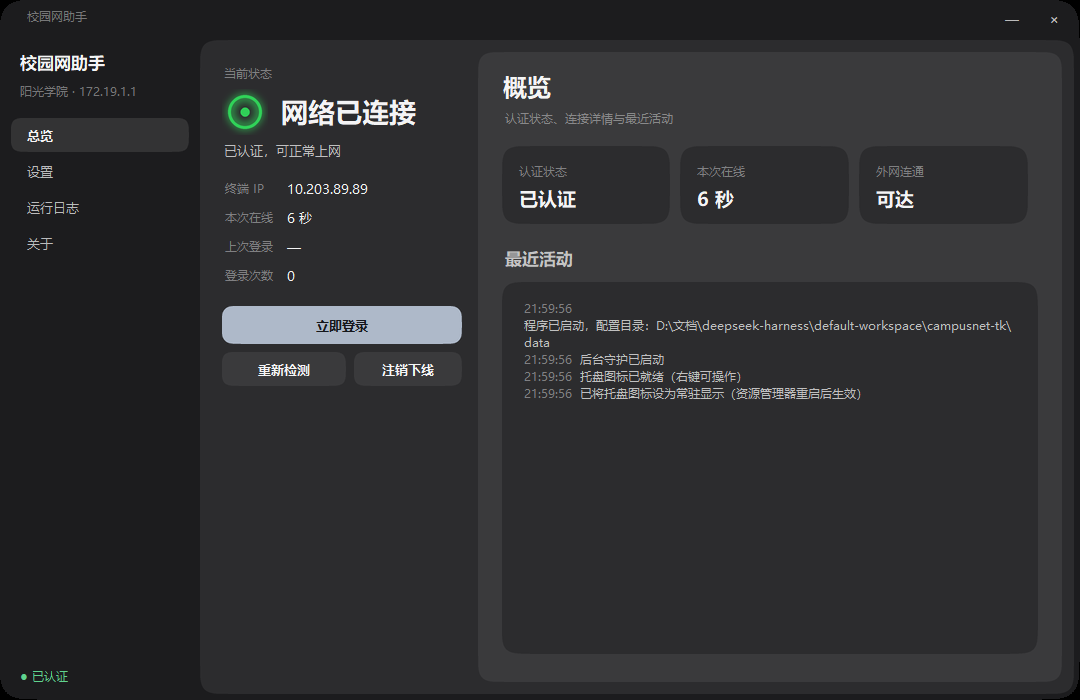
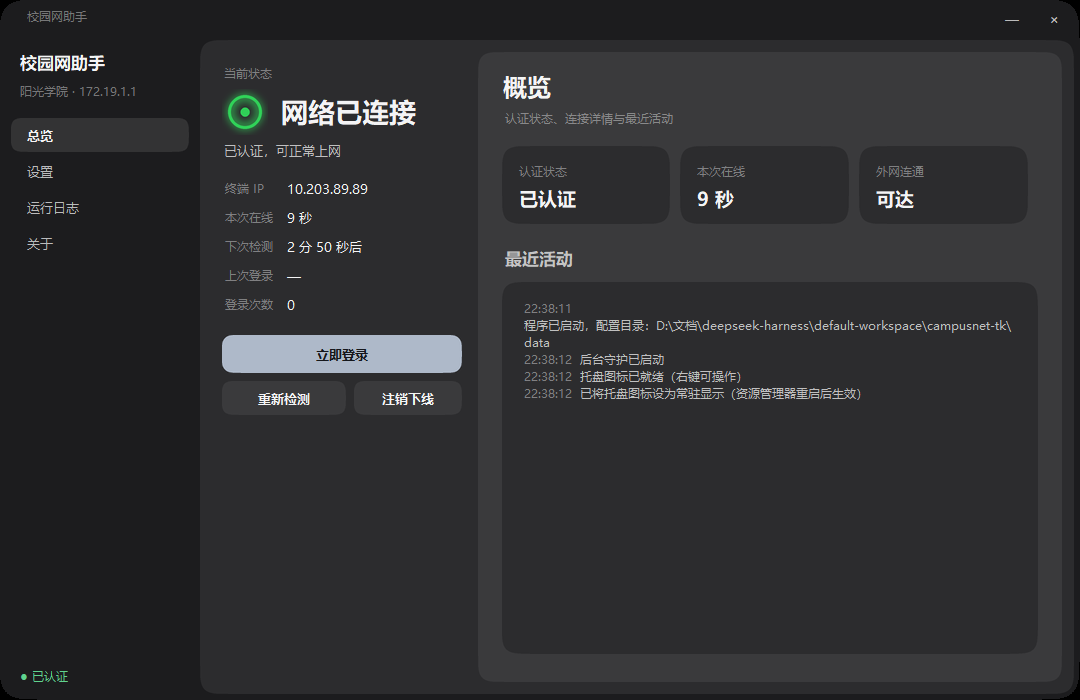
feat: 中栏显示距离下次检测的倒计时
- 引擎记录 _next_check，snapshot 输出 next_in
- 中栏新增「下次检测」行，每秒刷新（12 秒后 / 2 分 50 秒后 / 检测中…）

diff --git a/tk_app.py b/tk_app.py
@@ -1268,6 +1268,7 @@ class App(tk.Tk):
         meta.pack(fill="x", padx=16, pady=(8, 0))
         self.st_ip = self._meta_row(meta, "终端 IP")
         self.st_up = self._meta_row(meta, "本次在线")
+        self.st_next = self._meta_row(meta, "下次检测")
         self.st_last = self._meta_row(meta, "上次登录")
         self.st_count = self._meta_row(meta, "登录次数")
 
@@ -1829,6 +1830,7 @@ class App(tk.Tk):
         if sig == self._sig:
             up = self._fmt_dur(st["online_seconds"]) if st["authenticated"] else "—"
             self.st_up.configure(text=up)
+            self.st_next.configure(text=self._fmt_next(st.get("next_in")))
             if self._current == "overview":
                 self._ov_uptime.configure(text=up)
             return
@@ -1857,6 +1859,7 @@ class App(tk.Tk):
         self.st_count.configure(text=str(st["login_count"]))
         up = self._fmt_dur(st["online_seconds"]) if st["authenticated"] else "—"
         self.st_up.configure(text=up)
+        self.st_next.configure(text=self._fmt_next(st.get("next_in")))
         if self._current == "overview":
             self._ov_uptime.configure(text=up)
             self._ov_auth.configure(text="已认证" if st["authenticated"] else "未认证")
@@ -1887,6 +1890,17 @@ class App(tk.Tk):
             widget.insert("end", e["msg"] + "\n", tag)
         widget.see("end")
         widget.configure(state="disabled")
+
+    @staticmethod
+    def _fmt_next(sec):
+        if sec is None or sec < 0:
+            return "已暂停"
+        if sec <= 0:
+            return "检测中…"
+        if sec < 60:
+            return f"{sec} 秒后"
+        m, s2 = divmod(int(sec), 60)
+        return f"{m} 分 {s2} 秒后"
 
     @staticmethod
     def _fmt_dur(sec):

diff --git a/engine.py b/engine.py
@@ -24,6 +24,7 @@ class Engine:
         self._seq = 0
         self._fail_count = 0
         self._next_attempt = 0.0
+        self._next_check = 0.0
         self._portal: Portal | None = None
         self._warned_no_pw = False
         self.state = {
@@ -85,6 +86,12 @@ class Engine:
             st = dict(self.state)
             st["online_seconds"] = (int(time.time() - self.state["online_since"])
                                     if self.state.get("online_since") else 0)
+            if self.state.get("busy"):
+                st["next_in"] = 0
+            elif self._next_check:
+                st["next_in"] = max(0, int(round(self._next_check - time.time())))
+            else:
+                st["next_in"] = -1
             return st
 
     # ------------------------------------------------------------- 检测
@@ -107,6 +114,7 @@ class Engine:
             except PortalError as exc:
                 msg = str(exc)
 
+            self._next_check = time.time() + int(self.cfg.get("interval") or 20)
             self._patch(
                 internet=bool(net["online"]), portal_reachable=reachable,
                 authenticated=authenticated, ip=ip, acct=acct,
@@ -265,6 +273,7 @@ class Engine:
             except Exception as exc:                    # noqa: BLE001
                 self.log(f"守护线程异常：{exc}", "error")
                 time.sleep(5)
+            self._next_check = time.time() + interval
             slept = 0.0
             while slept < interval and not self.stop_event.is_set():
                 time.sleep(0.25)
